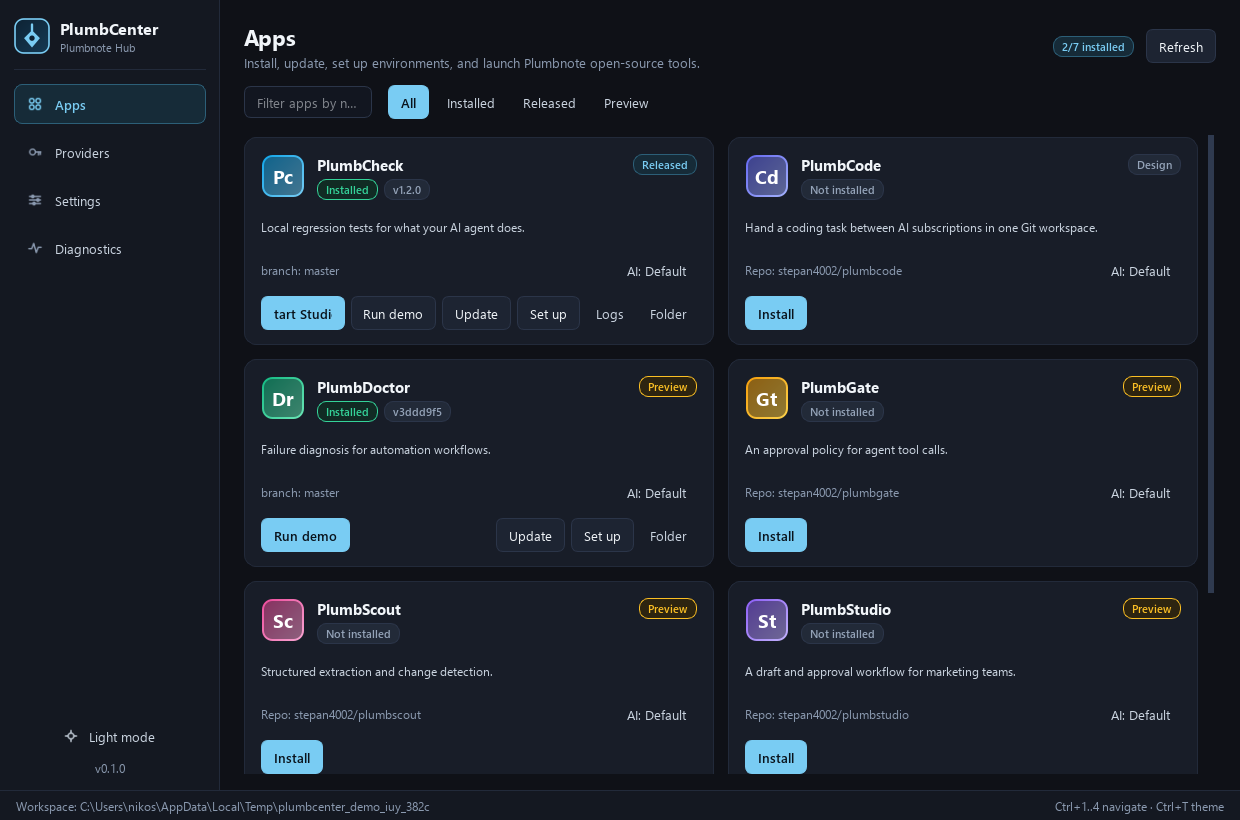
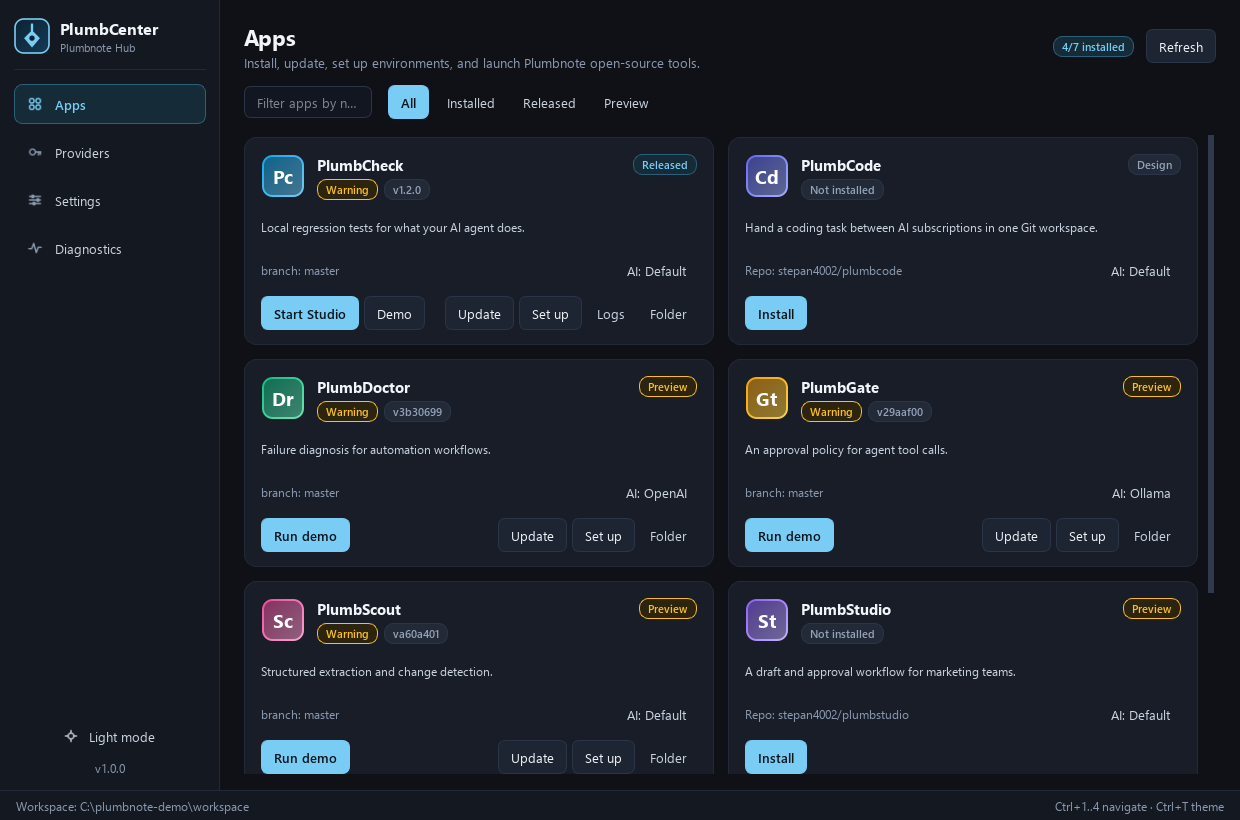
docs: ecosystem release prep (providers contract, PII-free screenshots, changelog, checklist)
Regenerate screenshots from a neutral demo workspace (they showed a user profile path and v0.1.0), add scripts/capture_screenshots.py, a hygiene test against local paths/emails, docs/PROVIDERS-CONTRACT.md, compat table in README, known limitations in CHANGELOG, VERIFY items in the release checklist.

diff --git a/scripts/capture_screenshots.py b/scripts/capture_screenshots.py
@@ -1,0 +1,118 @@
+"""Regenerate docs/screenshots/*.png offscreen with neutral, PII-free demo data.
+
+    QT_QPA_PLATFORM=offscreen python scripts/capture_screenshots.py
+
+Uses a throwaway workspace at a fixed neutral path and a fake interpreter path, so no
+user name or profile directory ever appears in an image.
+"""
+from __future__ import annotations
+
+import os
+import shutil
+import subprocess
+import sys
+import tempfile
+from pathlib import Path
+
+os.environ.setdefault("QT_QPA_PLATFORM", "offscreen")
+ROOT = Path(__file__).resolve().parent.parent
+sys.path.insert(0, str(ROOT))
+
+NEUTRAL = Path("C:/plumbnote-demo/workspace") if os.name == "nt" else Path("/tmp/plumbnote-demo/workspace")
+GIT_ENV = dict(os.environ, GIT_AUTHOR_NAME="Demo", GIT_AUTHOR_EMAIL="demo@example.invalid",
+               GIT_COMMITTER_NAME="Demo", GIT_COMMITTER_EMAIL="demo@example.invalid")
+
+
+def _fake_checkout(name: str, version: str = None) -> None:
+    d = NEUTRAL / name
+    d.mkdir(parents=True)
+    if version:
+        (d / "package.json").write_text('{"name": "%s", "version": "%s"}\n' % (name, version), encoding="utf-8")
+    else:
+        (d / "README.md").write_text(name + "\n", encoding="utf-8")
+    for cmd in (["init", "-q"], ["add", "."], ["commit", "-q", "-m", "init"]):
+        subprocess.run(["git", *cmd], cwd=d, env=GIT_ENV, check=True, capture_output=True)
+
+
+def _rmtree(path) -> None:
+    """rmtree that also removes read-only git objects on Windows."""
+    def _force(func, p, _exc):
+        try:
+            os.chmod(p, 0o700)
+            func(p)
+        except FileNotFoundError:
+            pass  # already gone (e.g. a transient git lock file)
+    shutil.rmtree(path, onerror=_force)
+
+
+def _settle(app, page=None, timeout_s: float = 40.0) -> None:
+    """Let background scans finish and the UI repaint.
+
+    Uses processEvents + sleep (not QTest.qWait, which starves worker threads of the GIL).
+    """
+    import time
+    from PySide6.QtCore import QThreadPool
+    pool = QThreadPool.globalInstance()
+
+    def pump(seconds: float) -> None:
+        end = time.monotonic() + seconds
+        while time.monotonic() < end:
+            app.processEvents()
+            time.sleep(0.02)
+
+    pump(0.3)
+    end = time.monotonic() + timeout_s
+    while (pool.activeThreadCount() or getattr(page, "_refresh_in_flight", False))             and time.monotonic() < end:
+        pump(0.1)
+    pump(0.5)
+
+
+def main() -> int:
+    if NEUTRAL.parent.exists():
+        _rmtree(NEUTRAL.parent)
+    NEUTRAL.mkdir(parents=True)
+    _fake_checkout("plumbcheck", "1.2.0")
+    for app in ("plumbdoctor", "plumbgate", "plumbscout"):
+        _fake_checkout(app)
+
+    home = Path(tempfile.mkdtemp(prefix="pn-"))
+    os.environ["PLUMBNOTE_HOME"] = str(home)
+    os.environ["PLUMBCENTER_STATE"] = str(home / "state")
+    sys.executable = "C:\Python311\python.exe" if os.name == "nt" else "/usr/bin/python3"  # display only
+
+    from PySide6.QtCore import QSettings, QTimer
+    from PySide6.QtWidgets import QApplication
+    from plumbcenter.gui.app import create_application
+    from plumbcenter.gui.mainwindow import MainWindow
+    from plumbcenter.providers.secrets import MemoryBackend
+    from plumbcenter.providers.store import ProviderStore
+
+    app = create_application(["capture"])
+    store = ProviderStore(home=home, secrets=MemoryBackend())
+    store.configure("openai", api_key="sk-demo-not-a-real-key", enabled=True, default_model="gpt-4.1-mini")
+    store.configure("ollama", enabled=True)
+    store.set_default("plumbdoctor", "openai")
+    store.set_default("plumbgate", "ollama")
+
+    out = ROOT / "docs" / "screenshots"
+    out.mkdir(parents=True, exist_ok=True)
+    for theme in ("dark", "light"):
+        settings = QSettings(str(home / f"{theme}.ini"), QSettings.Format.IniFormat)
+        settings.setValue("workspace/root", str(NEUTRAL))
+        settings.setValue("ui/theme", theme)
+        win = MainWindow(settings=settings, provider_store=store)
+        win.resize(1240, 820)
+        win.show()
+        for page in ("apps", "providers", "settings", "diagnostics"):
+            win.navigate(page)
+            _settle(app, win._pages[page])
+            win.grab().save(str(out / f"{page}-{theme}.png"))
+        win.close()
+    _rmtree(NEUTRAL.parent)
+    shutil.rmtree(home, ignore_errors=True)
+    print("wrote", len(list(out.glob("*.png"))), "screenshots to", out)
+    return 0
+
+
+if __name__ == "__main__":
+    sys.exit(main())

diff --git a/tests/test_repo_hygiene.py b/tests/test_repo_hygiene.py
@@ -1,0 +1,32 @@
+"""Guard: tracked text files must not contain user-profile paths or personal emails."""
+import re
+import subprocess
+import unittest
+from pathlib import Path
+
+ROOT = Path(__file__).resolve().parent.parent
+BS = re.escape(chr(92))  # one literal backslash
+PATTERN = re.compile(r"[A-Za-z]:" + BS + "Users" + BS + r"|[A-Za-z]:/Users/|/Users/[^/\s]+/|/home/[^/\s]+/|@gmail\.com|@outlook\.com")
+TEXT = {".md", ".py", ".ps1", ".toml", ".yml", ".yaml", ".txt", ".json", ".cfg", ".ini"}
+
+
+class HygieneTest(unittest.TestCase):
+    def test_no_local_paths_or_personal_emails(self):
+        try:
+            files = subprocess.run(["git", "ls-files"], cwd=ROOT, capture_output=True, text=True,
+                                   check=True).stdout.splitlines()
+        except (OSError, subprocess.CalledProcessError):
+            self.skipTest("not a git checkout")
+        bad = []
+        for name in files:
+            path = ROOT / name
+            if name == "tests/test_repo_hygiene.py" or path.suffix.lower() not in TEXT or not path.is_file():
+                continue
+            for n, line in enumerate(path.read_text(encoding="utf-8", errors="replace").splitlines(), 1):
+                if PATTERN.search(line):
+                    bad.append(f"{name}:{n}")
+        self.assertEqual(bad, [], "local path / personal email found")
+
+
+if __name__ == "__main__":
+    unittest.main()

diff --git a/docs/RELEASE-CHECKLIST.md b/docs/RELEASE-CHECKLIST.md
@@ -6,6 +6,8 @@ Tick each box before tagging `v1.0.0`. "Auto" items are covered by CI or `pytest
 - [x] Auto: `python -m pytest -q` green on Ubuntu and Windows (offscreen Qt, `.github/workflows/ci.yml`)
 - [x] Auto: provider key never in `providers.json`, logs or exceptions (`tests/test_providers*.py`)
 - [x] Auto: sibling apps read the shared `providers.json` (`tests/test_cross_app_sync.py`)
+- [x] Auto: no local paths or personal emails in tracked text files (`tests/test_repo_hygiene.py`)
+- [x] Screenshots regenerated from a neutral demo workspace (`scripts/capture_screenshots.py`)
 - [x] Auto: inputs have accessible names, controls have tooltips (`tests/gui/test_accessible_names.py`)
 - [ ] Manual: GUI opens at 100 %, 150 % and 200 % Windows scaling with no clipped text
 - [ ] Manual: keyboard only: Tab through sidebar, cards, provider form; Ctrl+T toggles the theme
@@ -21,6 +23,11 @@ Tick each box before tagging `v1.0.0`. "Auto" items are covered by CI or `pytest
 - [ ] With real checkouts of PlumbGate, PlumbStudio, PlumbDoctor and PlumbScout: Apps page shows each as installed with a version
 - [ ] Run demo from the hub for each app; set a default provider and confirm the app reads it from `~/.plumbnote/providers.json`
 - [ ] PlumbCode shows as design stage with a default-provider chip and no launch button
+
+## Provider probes (VERIFY before announcing)
+- [ ] Kilo: `GET /models` is public, so a 200 does not prove the key. Test with a real key and document the result
+- [ ] Z.ai: no models-list endpoint is documented; confirm the probe and the `glm-4.6` default against a live account
+- [ ] PlumbScout does not read `providers.json` yet: ship as-is and say so, or add support first
 
 ## Repo hygiene
 - [ ] `CHANGELOG.md` 1.0.0 entry matches what shipped; README screenshots current

diff --git a/README.md b/README.md
@@ -1,5 +1,7 @@
 # PlumbCenter
 
+![Apps page](docs/screenshots/apps-dark.png)
+
 Desktop hub for the Plumbnote open-source apps. Discover, install, update, set up, and run
 PlumbCheck, PlumbCode, PlumbDoctor, PlumbGate, PlumbScout, PlumbStudio, and PlumbBridge from
 one window.
@@ -43,10 +45,28 @@ tests are cheap GETs to each provider's documented endpoint. Z.ai's docs publish
 completions, not a models list. Kilo's documented `GET /models` does not require a key. Those
 two limits are noted on the probe result.
 
+## Works with
+
+| App | Found and launched by the hub | Reads `~/.plumbnote/providers.json` |
+|---|---|---|
+| PlumbCheck, PlumbBridge | yes | not applicable (no AI calls) |
+| PlumbDoctor | yes (`demo`) | yes: default provider and key from keyring service `plumbnote` |
+| PlumbStudio | yes (`demo`) | yes |
+| PlumbGate | yes (`demo`) | metadata only, never keys |
+| PlumbCode | yes (catalog, no launch yet) | yes (`plumbcode wizard`) |
+| PlumbScout | yes (`demo`) | not yet |
+
+See [docs/PROVIDERS-CONTRACT.md](docs/PROVIDERS-CONTRACT.md) for the file format.
+
+## Screenshots
+
+Regenerate with `QT_QPA_PLATFORM=offscreen python scripts/capture_screenshots.py`. The script
+uses a throwaway demo workspace, so no user name or local path appears in the images.
+
 ## Build
 
 `packaging/build.ps1` makes a one-folder windowed app in `dist/PlumbCenter/`, zips it, and prints the
-SHA256. The desktop package needs `plumbcenter/gui` on the branch.
+SHA256. It then launches the exe once with `--smoke-test` and checks the version metadata.
 
 ## Tests
 

diff --git a/CHANGELOG.md b/CHANGELOG.md
@@ -9,8 +9,18 @@
 - `runner.setup_venv` and `runner.health` for per-app virtualenvs and install checks.
 - `discovery.self_status` for the hub checkout versus the GitHub latest release.
 - CLI: `plumbcenter gui`, `plumbcenter providers list`, `plumbcenter providers set-default`.
-- PyInstaller `build.ps1` and GitHub Actions CI (Ubuntu and Windows, offscreen Qt).
+- PyInstaller `packaging/build.ps1` with icon, version metadata and an exe launch smoke test (`--smoke-test`), plus GitHub Actions CI (Ubuntu and Windows, offscreen Qt).
+- Cross-app tests: discovery, launch and shared `providers.json` for the sibling apps; the key never reaches the file or app output.
+- Accessible names on every input and the theme toggle.
+- `scripts/capture_screenshots.py` regenerates the docs screenshots from a neutral demo workspace.
 
 ### Changed
 
 - Package version is 1.0.0. Dependencies are PySide6-Essentials and keyring.
+
+### Known limitations
+
+- The legacy local web hub (`plumbcenter serve`, `web.py`, `static/`) is still present in this release line and is slated for removal.
+- Kilo's `GET /models` is public, so a 200 does not prove the key is valid. Z.ai documents no models-list endpoint, so its test probes `GET /models` and the default model is `glm-4.6`.
+- PlumbScout does not read `~/.plumbnote/providers.json` yet.
+- The Windows build warns that optional Qt6WebEngine, Pdf and VirtualKeyboard DLLs are absent from PySide6-Essentials. The window launches; the hub uses none of them.

diff --git a/docs/PROVIDERS-CONTRACT.md b/docs/PROVIDERS-CONTRACT.md
@@ -1,0 +1,22 @@
+# Shared providers contract
+
+PlumbCenter writes `~/.plumbnote/providers.json` (override the folder with `PLUMBNOTE_HOME`).
+Other Plumbnote apps only read it.
+
+```json
+{"version": 1,
+ "providers": {"openai": {"enabled": true, "base_url": "https://api.openai.com/v1",
+                          "default_model": "gpt-4.1-mini", "secret": "keyring"}},
+ "defaults": {"plumbdoctor": "openai"}}
+```
+
+- `defaults[app_id]` is the provider an app should prefer; fall back to the first enabled provider.
+- **The API key is never in this file.** Read it from the OS keyring: service `plumbnote`,
+  username = the provider id (for example `openai`). On Windows without a usable keyring
+  backend, PlumbCenter uses a per-user DPAPI file in the same folder.
+- Apps must treat a missing or malformed file as "no providers configured".
+- `version` is 1. Readers should ignore unknown fields.
+
+Verified against the sibling checkouts: PlumbDoctor and PlumbStudio use keyring service
+`plumbnote` and the same provider ids; PlumbGate reads names and models only; PlumbCode reads
+the file in `plumbcode wizard`; PlumbScout has no integration yet.
